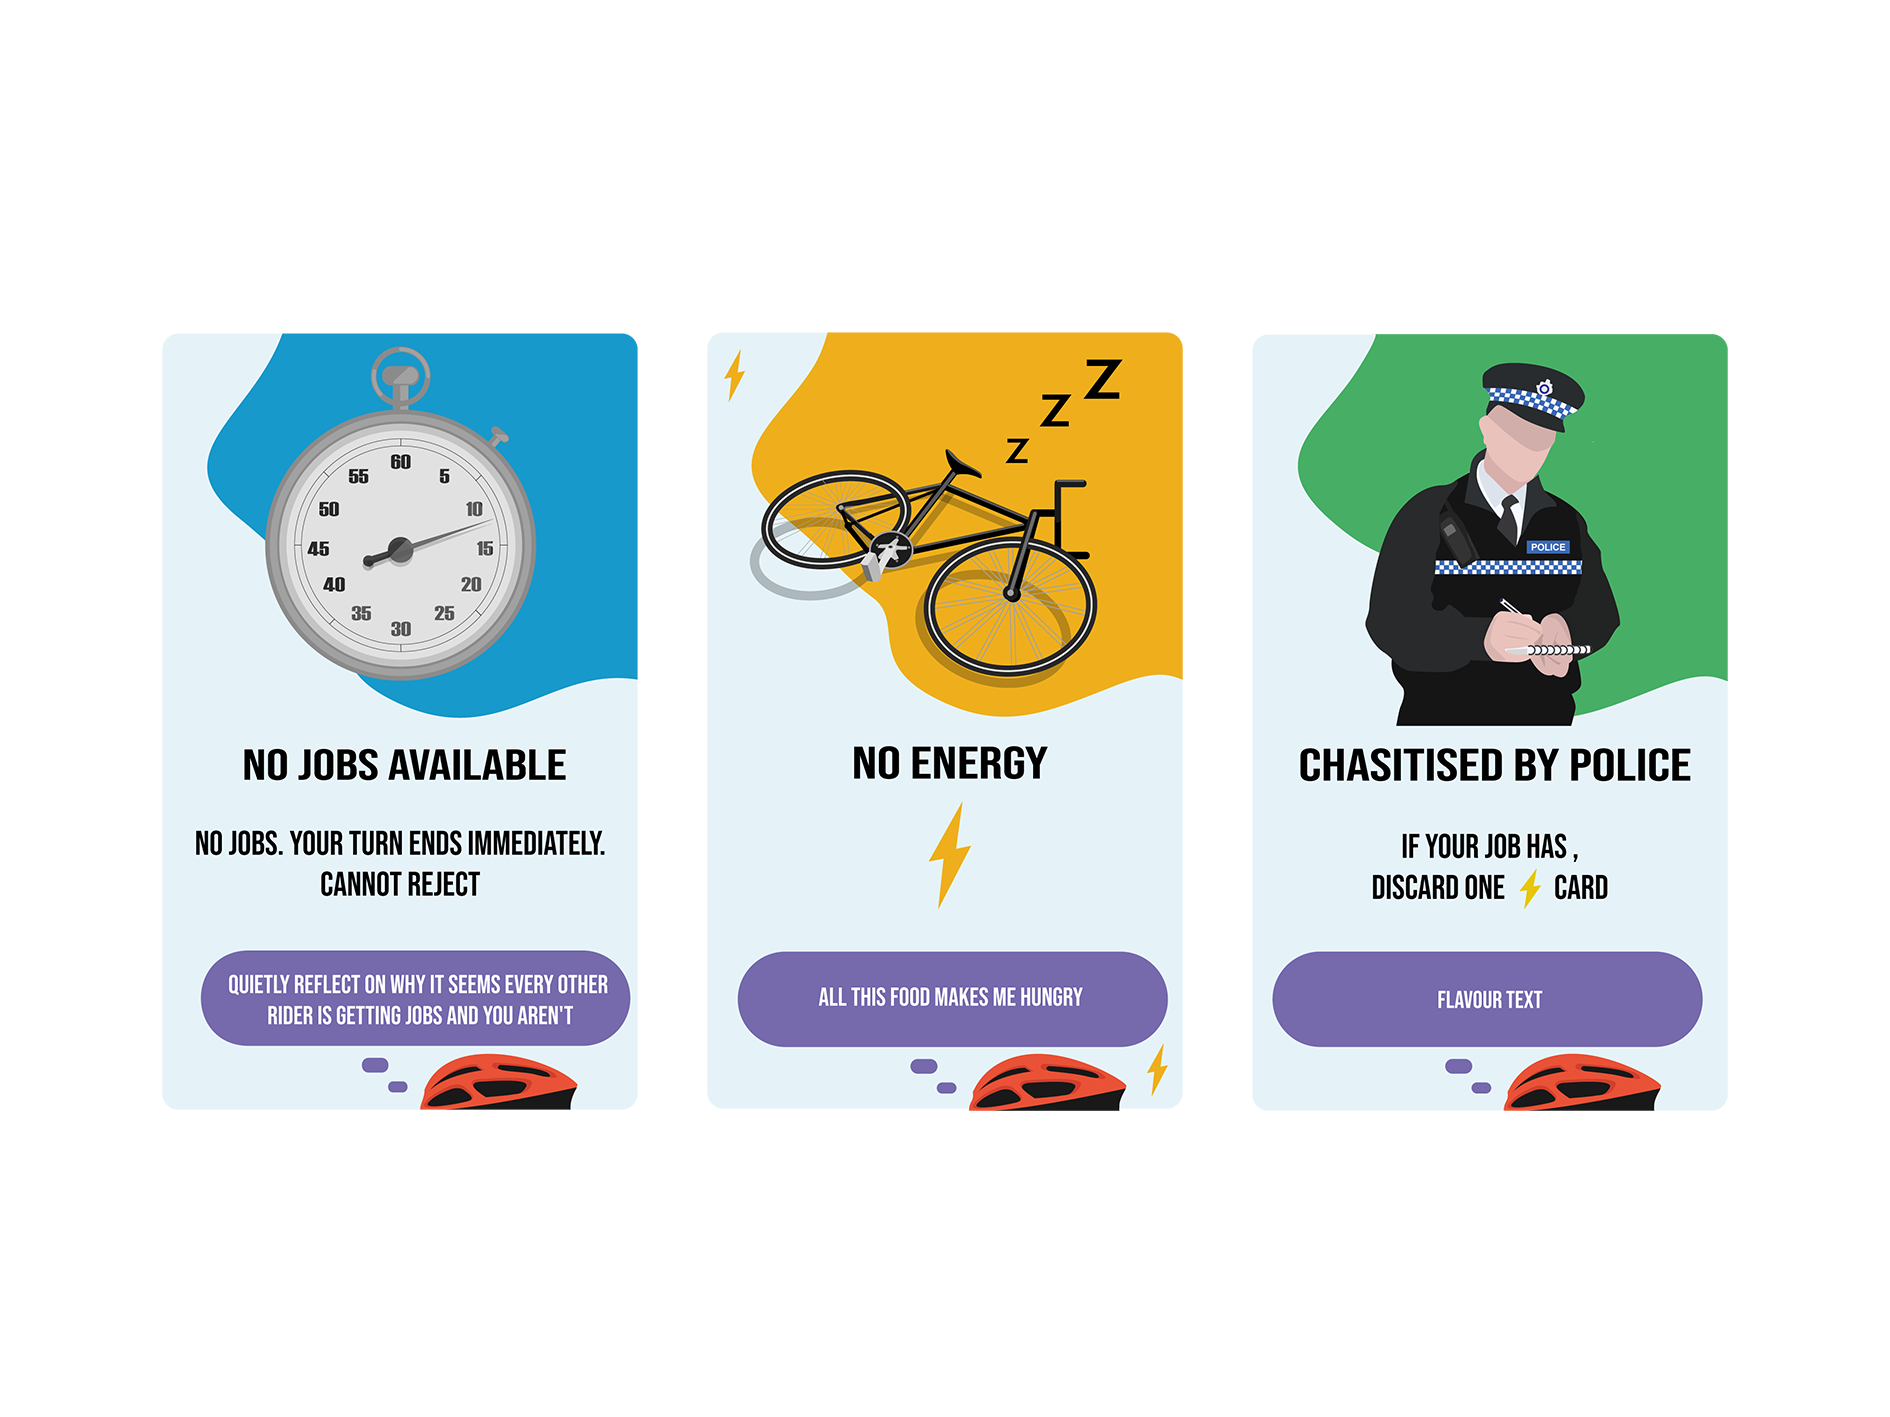
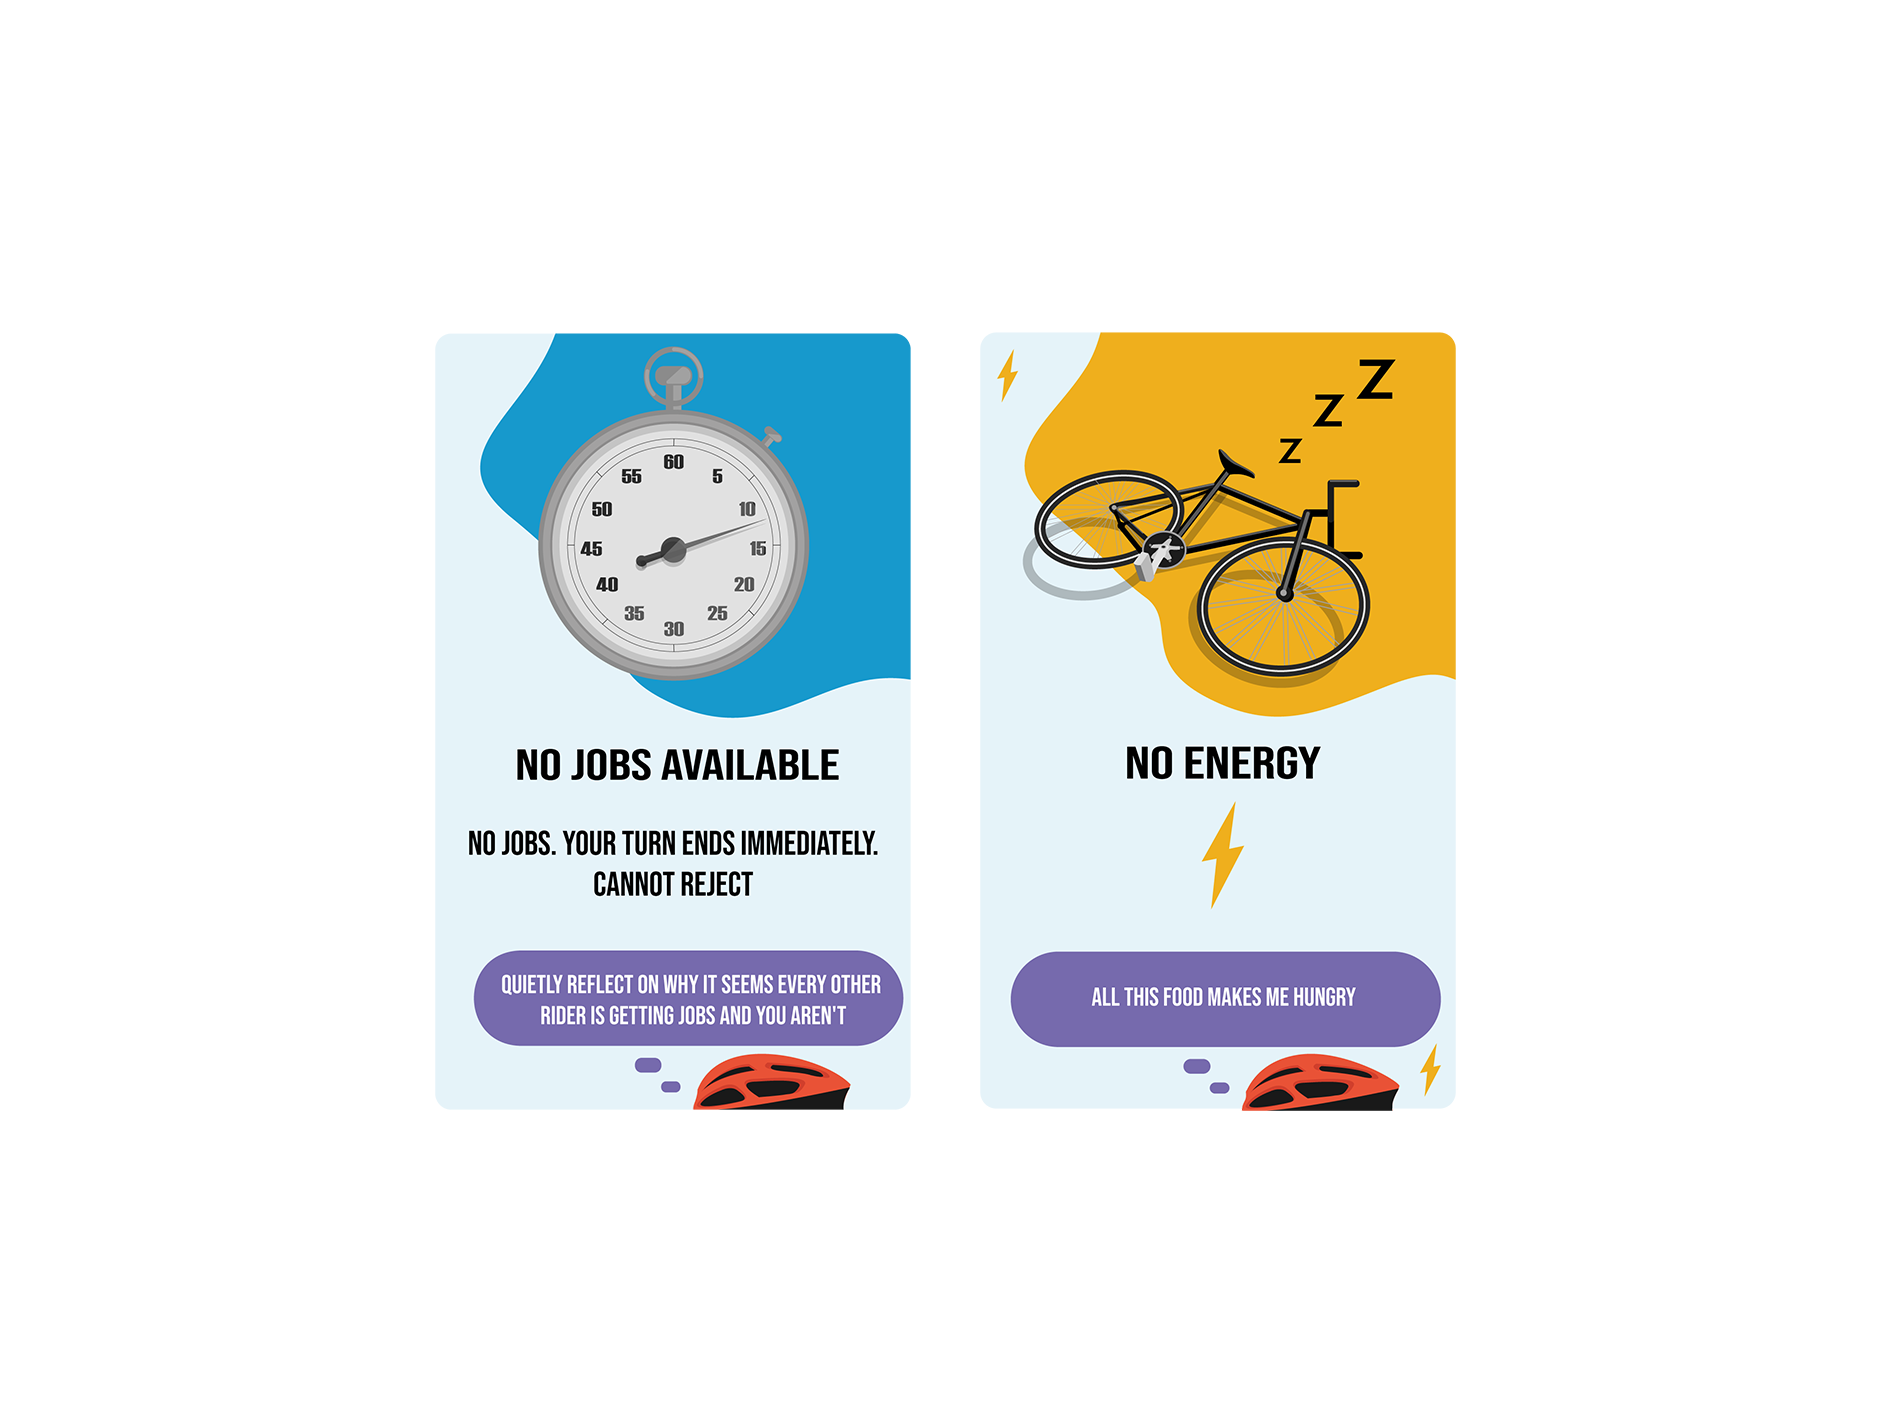
edited out copper

diff --git a/_posts/2023-06-01-meal-deal.md b/_posts/2023-06-01-meal-deal.md
@@ -25,7 +25,7 @@ Meal Deal is a game that puts players in the saddles of cycle couriers working i
 
 ## Meet the team
 
-Meal Deal was developed by Oliver Bates and Ben Kirman. Card illustrations and visual design by [Emily Martin](https://www.linkedin.com/in/emily-martin-707451181/). Illustration and visual design for the rules by [Tony Pickering (Pick-Art)](https://www.pick-art.co.uk/)
+Meal Deal was developed by Oliver Bates and Ben Kirman. Card illustrations and visual design by [Emily Martin](https://www.linkedin.com/in/emily-martin-707451181/). Illustration and visual design for the rules by [Tony Pickering (Pick-Art)](https://www.pick-art.co.uk/). 
 
 ### From the rules: 
 
